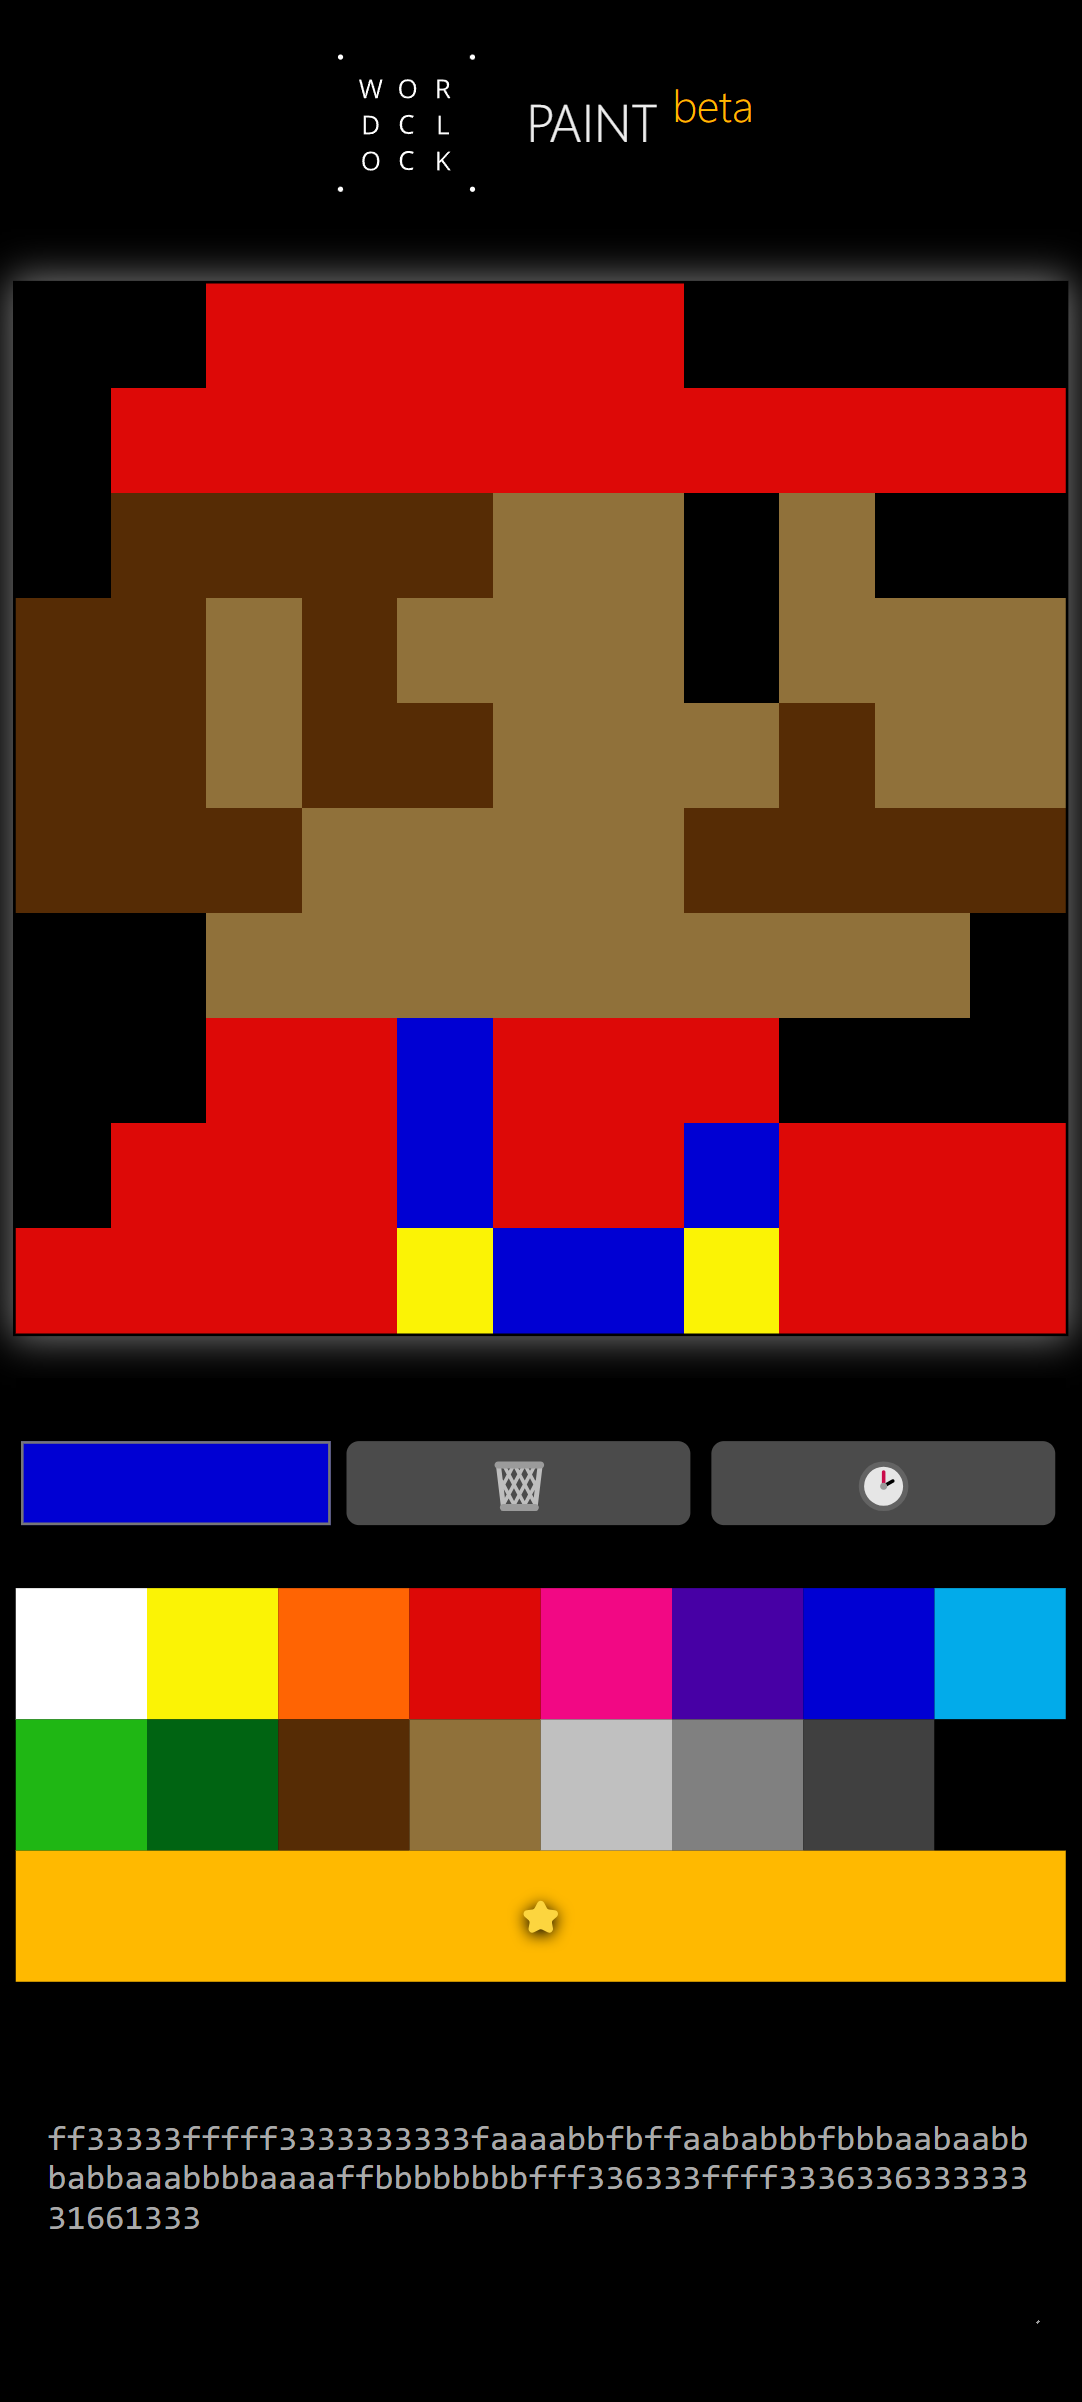
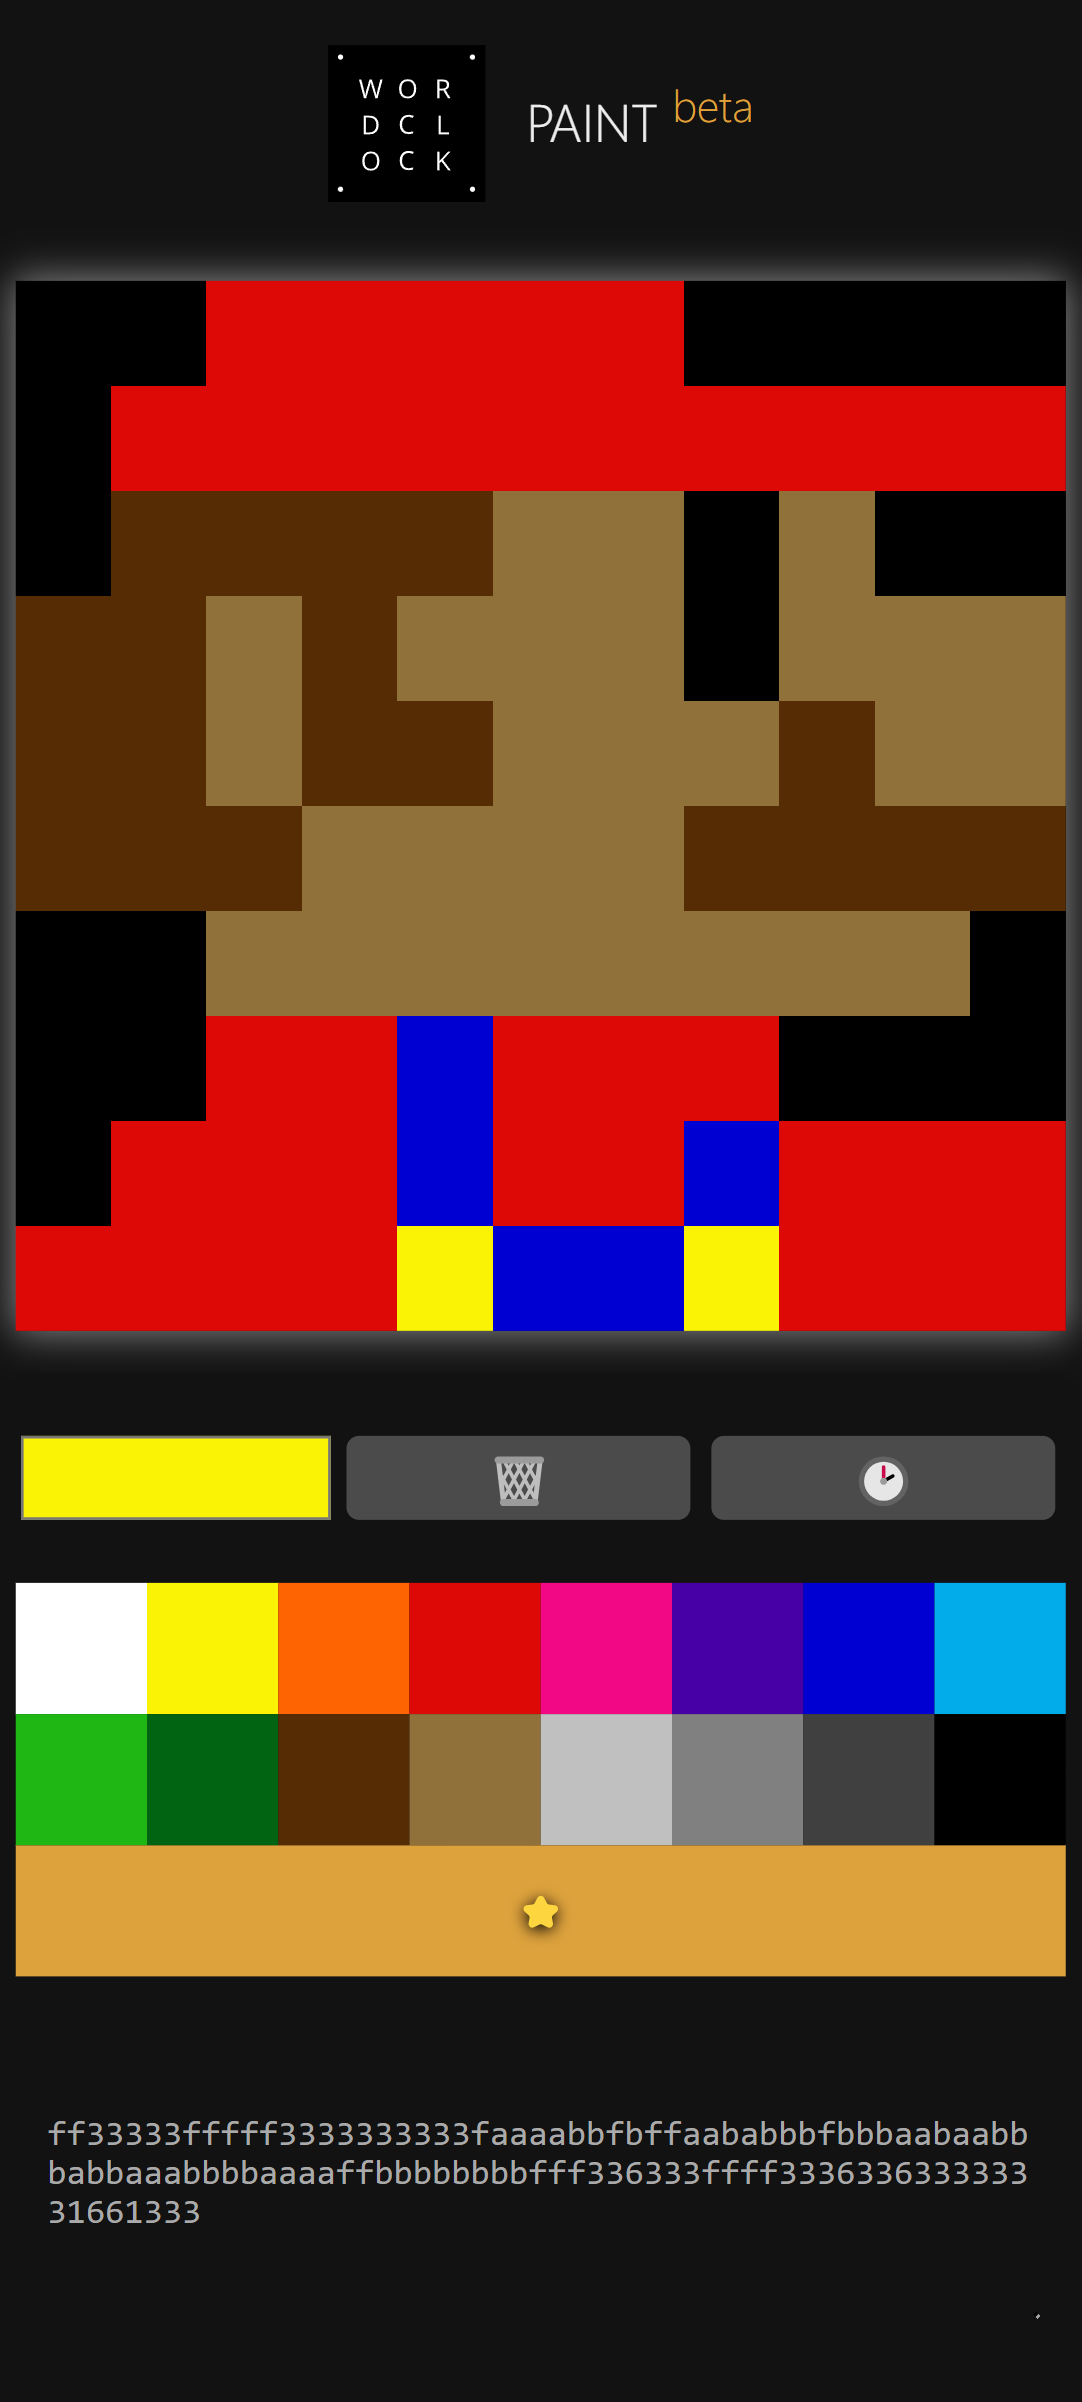
Readme update

diff --git a/software/wordclock/src/paint.html b/software/wordclock/src/paint.html
@@ -12,7 +12,7 @@
   <style>
     body,
     section {
-      background: black;
+      background: #121212;
       color: #eee;
       font: 100% system-ui;
       display: flex;
@@ -68,15 +68,15 @@
       margin-top: 40px;
       width: 400px;
       height: 100px;
-      background: black;
+      background: #121212;
       color: #aaa;
       font-family: monospace;
-      border: 10px solid black;
+      border: 10px solid #121212;
       box-sizing: border-box;
     }
 
     canvas {
-      border: 1px black solid;
+      border: none;
       display: block;
       margin: 1rem;
       width: 400px;

diff --git a/README.md b/README.md
@@ -39,10 +39,13 @@ You can oviously choose to customize any of the provided templates to eg create 
 
 ### Software
 
-The provided [source code](software/README.md) is using [PlatformIO](https://platformio.org/) and Arduino IDE. It runs a web server though a WiFi captive portal in order to easily configure the clock from a computer or smartphone, and perform OTA firmware update ([demo video](https://youtu.be/WF_X5soabm0)).
+The provided [source code](software/README.md) is using [PlatformIO](https://platformio.org/) and Arduino IDE. Here's a [demo video](https://youtu.be/WF_X5soabm0) (from v1.0, does not show all current features).
+
+It runs a web server though a WiFi captive portal for initial configuration via a smartphone or computer, then optionally connects to your home network to use internet time (NTP), MQTT client for home automation, and other features. Check out the [User's Manual](software/UsersManual.md) for more details.
 
 <p align="center">
-  <img src="images/webui.png" width="200">
+  <img src="images/webui.png" title="Screenshot of the configuration interface" width="200"/>
+  <img src="images/paint.png" title="Screenshot of the Paint interface" width="200" style="vertical-align:top"/>
 </p>
 
 It is, of course, possible to ditch that code entirely and use [ESPHome](https://esphome.io/) or [MicroPython](https://docs.micropython.org/en/latest/esp32/tutorial/intro.html) instead. 
